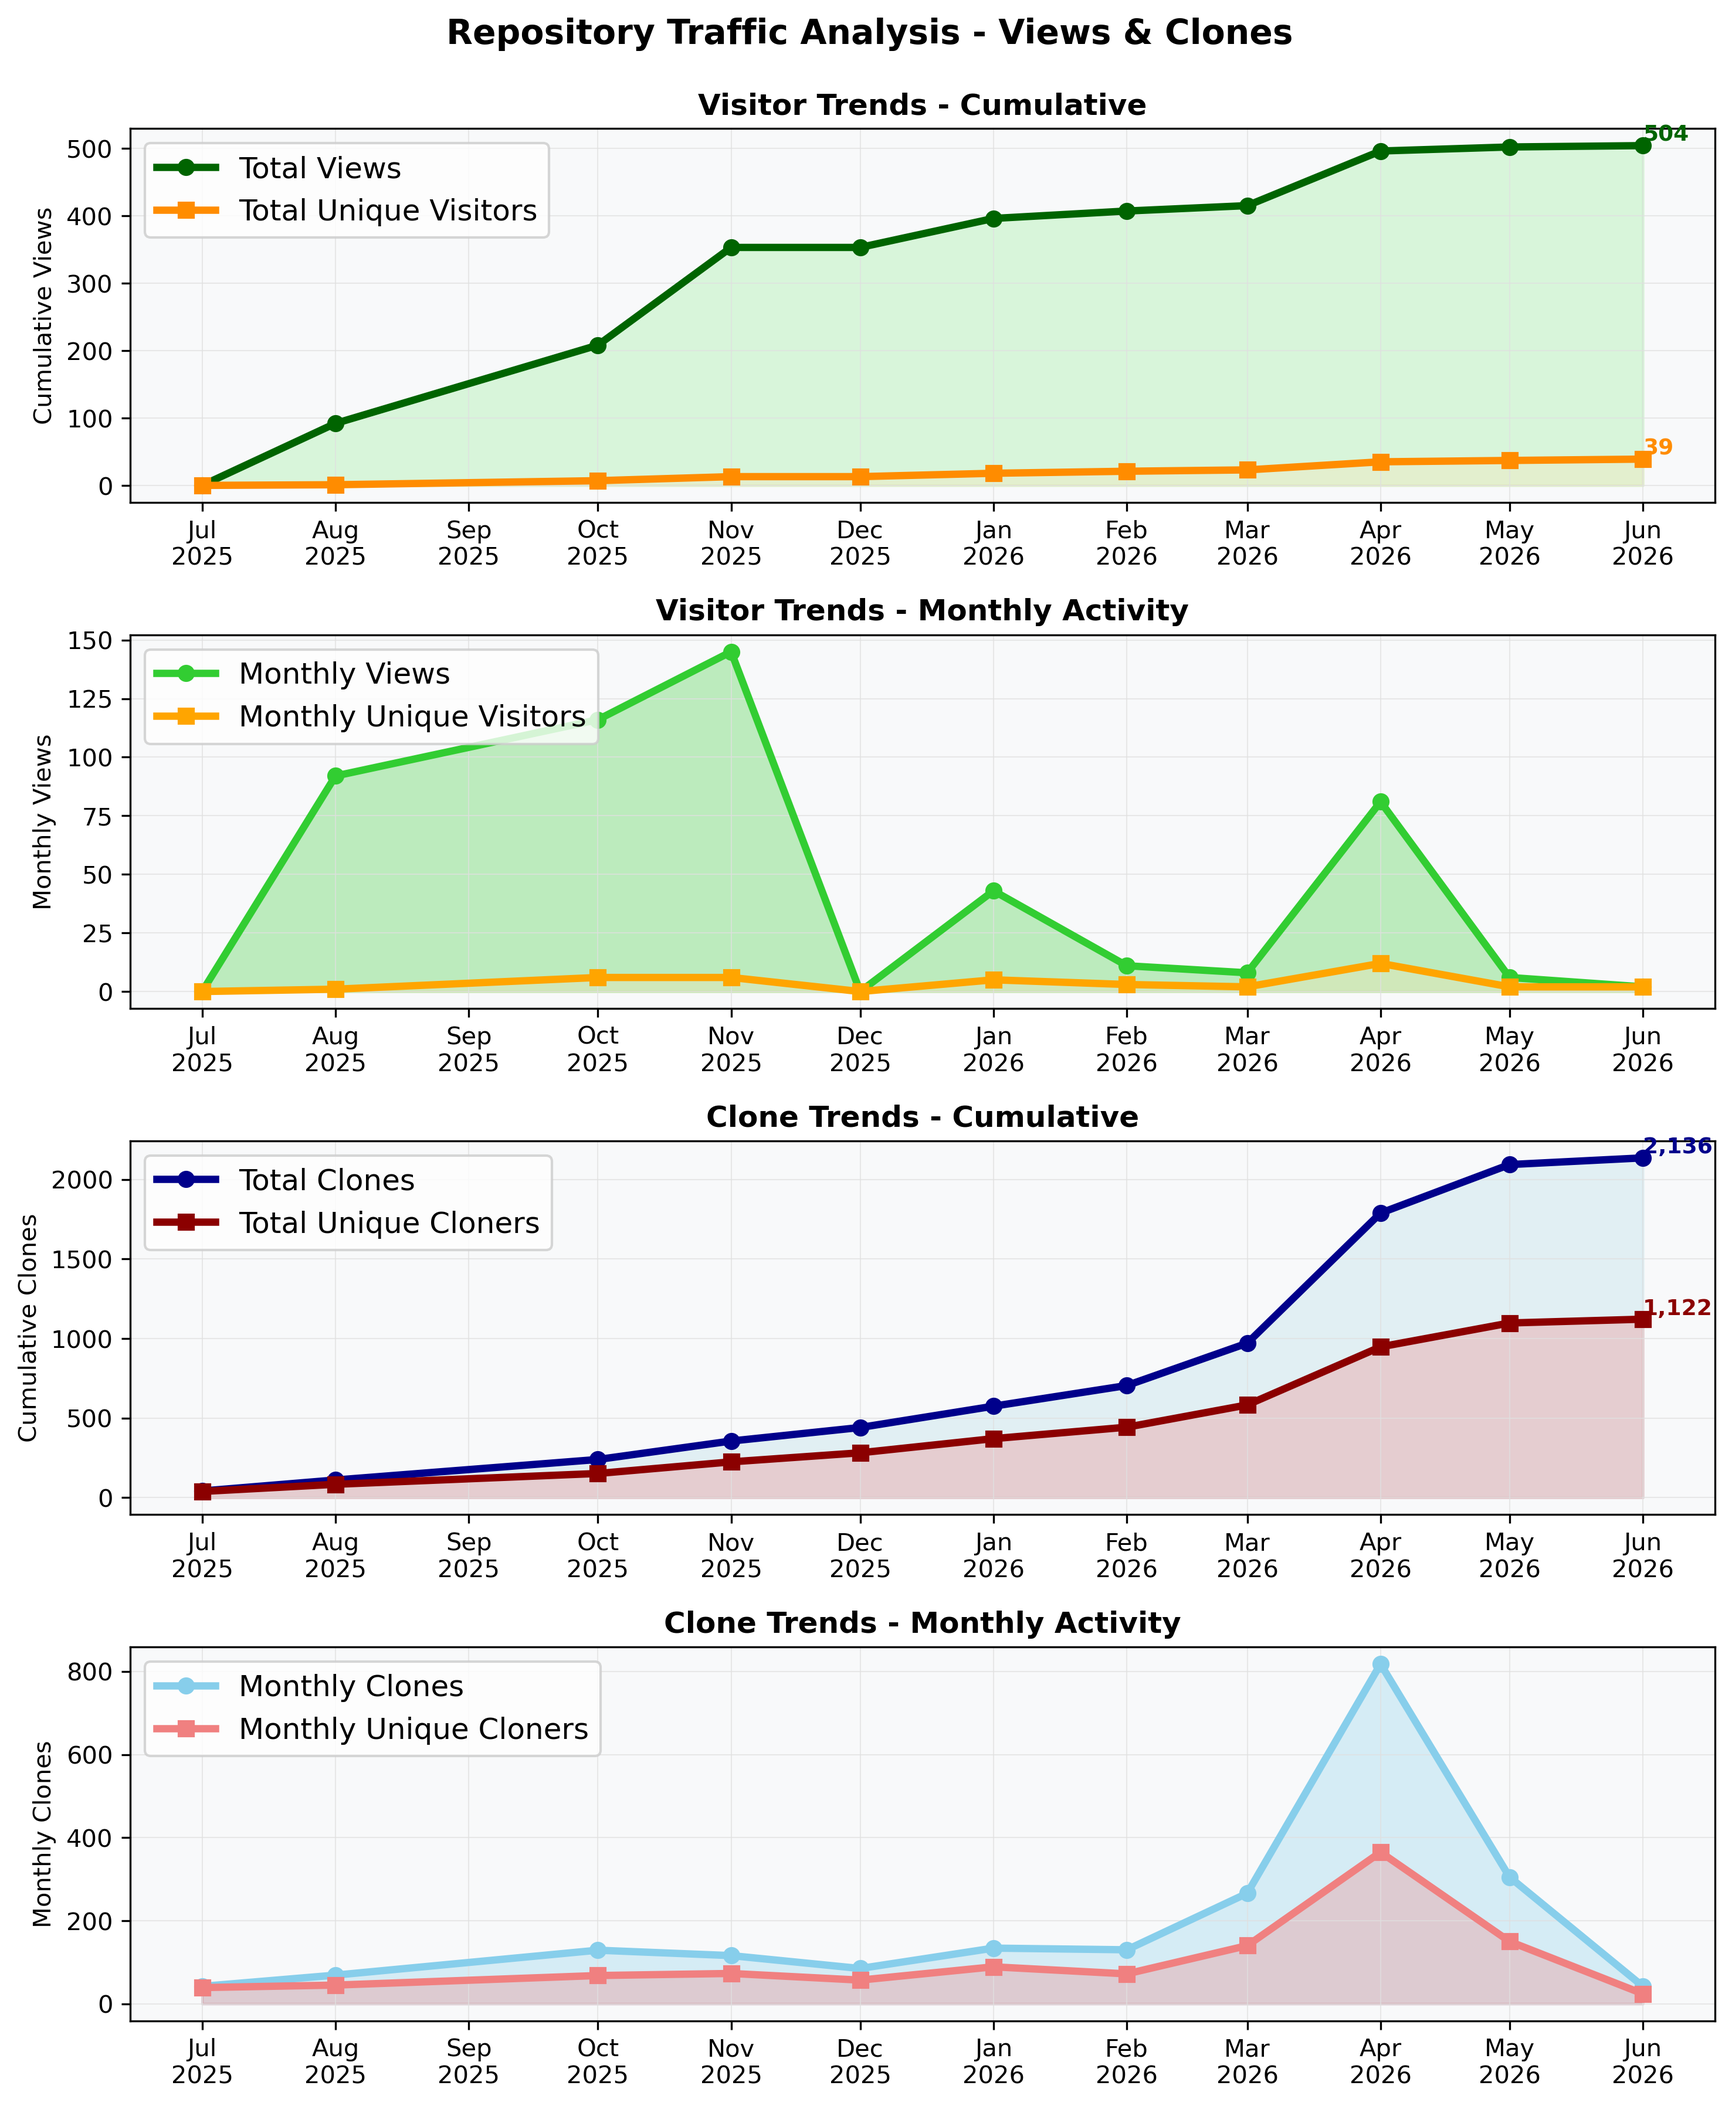
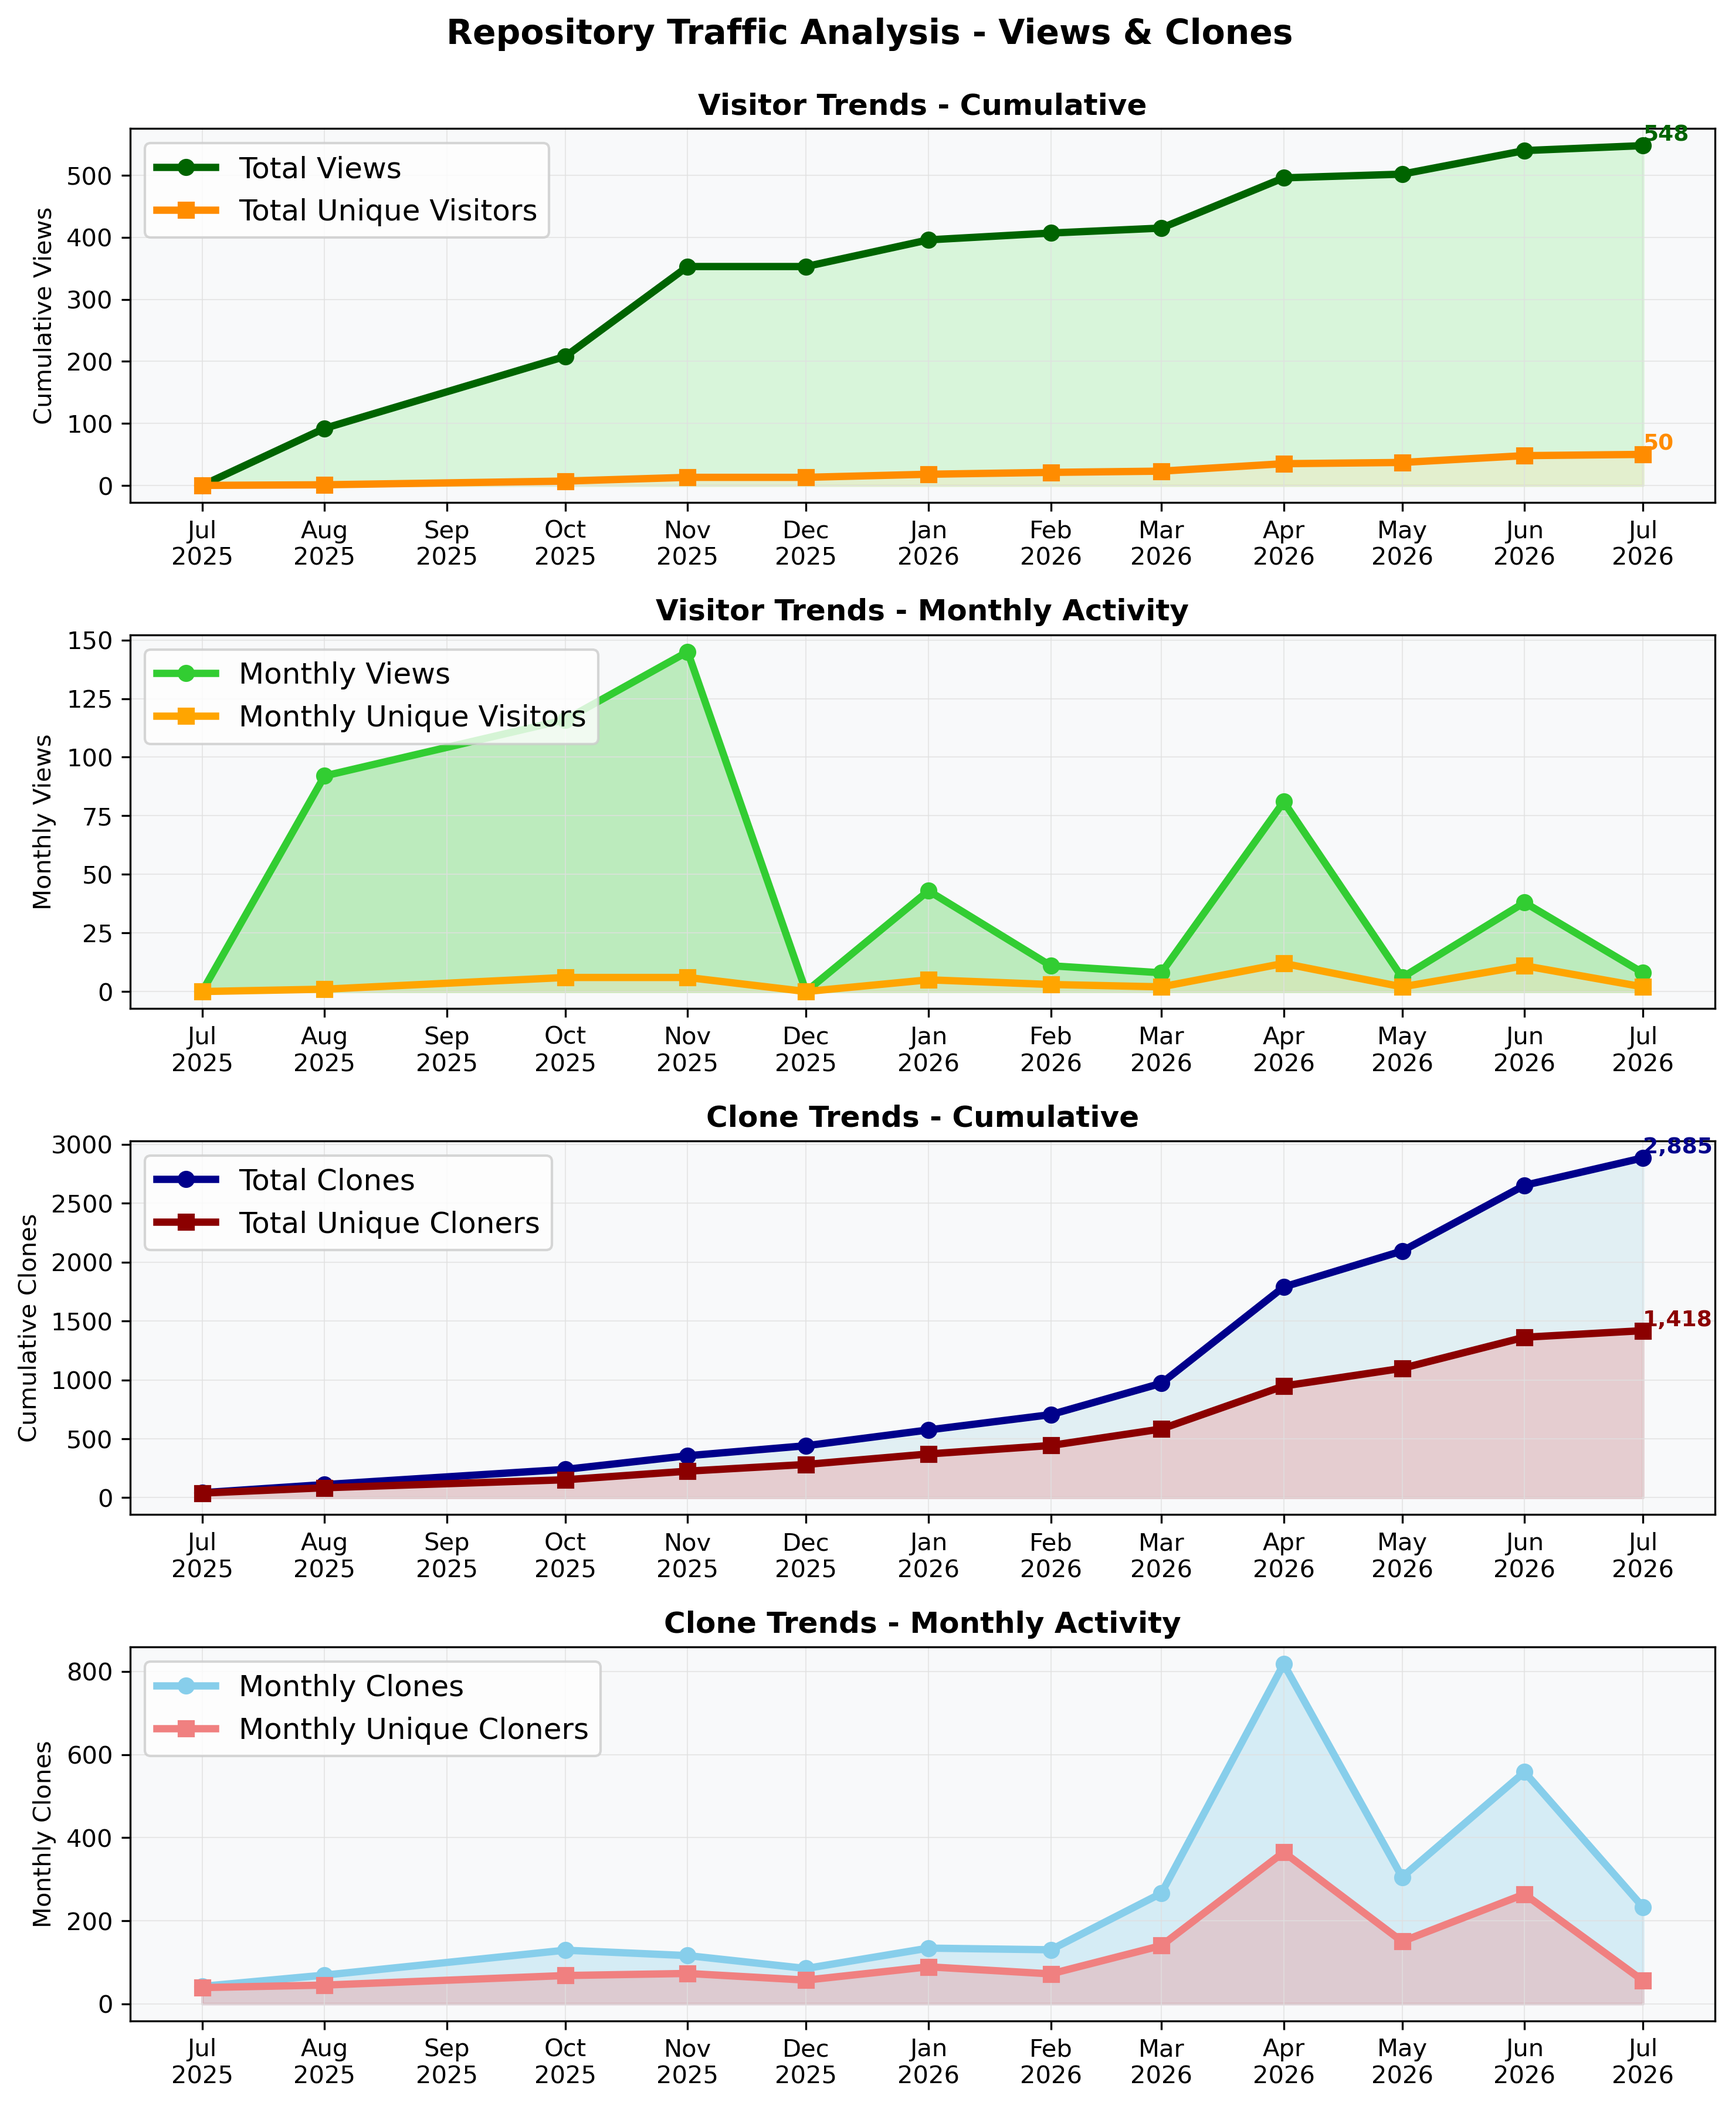
tooltip modification

diff --git a/pages/progress_Phylum.html b/pages/progress_Phylum.html
@@ -338,13 +338,19 @@
             trigger: 'axis',
             axisPointer: { type: 'shadow' },
             position: function (point, params, dom, rect, size) {
-              var x = point[0] + 20;
+              // Follow the cursor, but bias down-and-right into the empty space
+              // so the tooltip sits off the bars instead of on top of them.
+              var offset = 20;
+              var x = point[0] + offset;
               if (x + size.contentSize[0] > size.viewSize[0]) {
-                x = point[0] - size.contentSize[0] - 20;
+                x = point[0] - size.contentSize[0] - offset;
               }
-              var y = point[1] - size.contentSize[1] / 2;
+              if (x < 0) x = 0;
+              var y = point[1] + offset;
+              if (y + size.contentSize[1] > size.viewSize[1]) {
+                y = point[1] - size.contentSize[1] - offset;
+              }
               if (y < 0) y = 0;
-              if (y + size.contentSize[1] > size.viewSize[1]) y = size.viewSize[1] - size.contentSize[1];
               return [x, y];
             },
             formatter: function (params) {
@@ -650,7 +656,7 @@
             // totalMap starts empty; populated when totalHisto resolves in the background
             const totalMap = {};
 
-            // Chart uses top 20 from INSDC
+            // Chart uses top 10 from INSDC
             const insdcTop20Entries = Object.entries(
                 processPhylumCats(insdcHisto?.report?.report?.histogram?.cats || [], insdcTotal, 200)
               )
